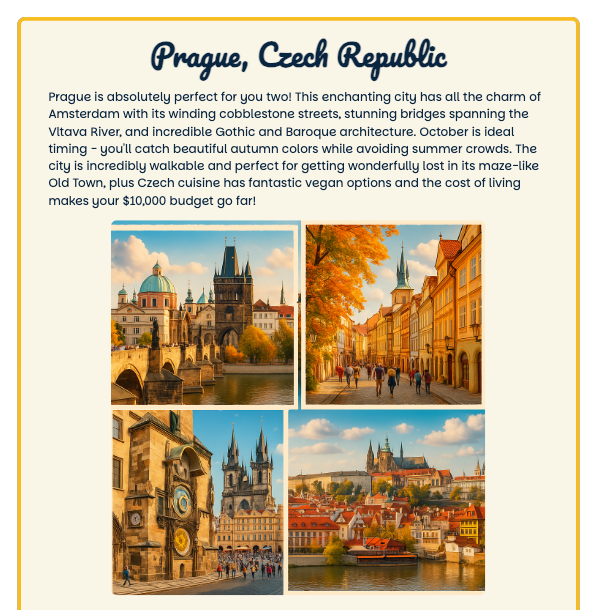
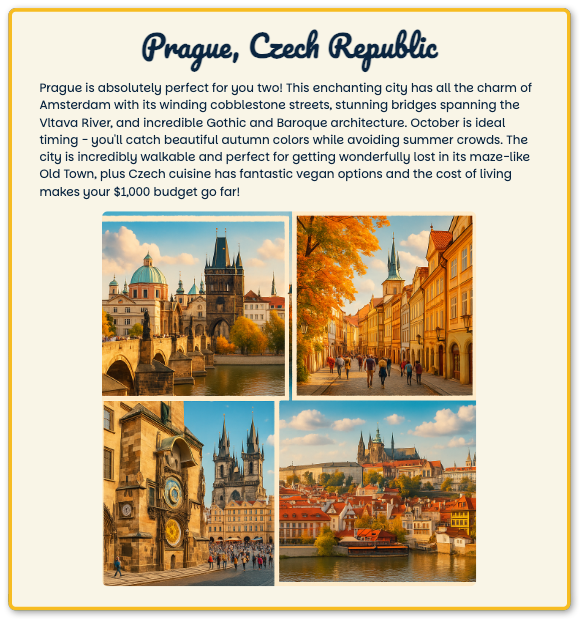
updating home page styling. Just need to make final edits

diff --git a/client/src/pages/Home.tsx b/client/src/pages/Home.tsx
@@ -1,7 +1,7 @@
 import { StepProps } from "../types/types";
 import { useNavigate } from "react-router-dom";
 import beeLogo from "../assets/bee.png";
-import kyoto from "../assets/images/destinations/kyoto.png";
+import prague from "../assets/prague_homepage.png";
 import example_result from "../assets/recommendation-example_cropped.png";
 import { useState } from "react";
 
@@ -146,20 +146,85 @@ function Home({
                 />
               </svg>
             </div>
+            <h3 style={{ color: "var(--action-coral)", fontSize: "26px" }}>
+              Maybe you'll go to...
+            </h3>
             <div className="homeBottomExampleContainer">
-              <img src={example_result} alt="" style={{ width: "500px" }} />
-              <div className="homeBottomExampleText">
-                <h3>All of this is made for you:</h3>
-                <li>
-                  Recommendations on destinations to visit based entirely on
-                  your preferences
-                </li>
-                <li>The best places to stay and eat that fit your lifestyle</li>
-                <li>Detailed itineraries for the length of your trip</li>
-                <li>Advice on local customs and tips on traveling</li>
-                <li>And (of course) much more!</li>
+              <div className="homeBottomExampleContentContainer">
+                <h2
+                  style={{
+                    fontFamily: "Pacifico",
+                    fontSize: "30px",
+                    margin: "15px 0",
+                  }}
+                >
+                  Prague, Czech Republic
+                </h2>
+                <p style={{ textAlign: "left" }}>
+                  Prague is absolutely perfect for you two! This enchanting city
+                  has all the charm of Amsterdam with its winding cobblestone
+                  streets, stunning bridges spanning the Vitava River, and
+                  incredible Gothic and Baroque architecture. October is ideal
+                  timing - you'll catch beautiful autumn colors while avoiding
+                  summer crowds. The city is incredibly walkable and perfect for
+                  getting wonderfully lost in its maze-like Old Town, plus Czech
+                  cuisine has fantastic vegan options and the cost of living
+                  makes your $1,000 budget go far!
+                </p>
+                <img
+                  src={prague}
+                  alt=""
+                  style={{ borderRadius: "10px", width: "90%" }}
+                />
+                <div
+                  style={{
+                    width: "80%",
+                    height: "2px",
+                    backgroundColor: "var(--action-coral)",
+                    margin: "35px 0 10px 0",
+                  }}
+                />
+
+                <h3
+                  style={{
+                    margin: "20px 0 10px 0",
+                    fontSize: "22px",
+                    color: "var(--brand-blue)",
+                  }}
+                >
+                  Your travel plan will include:
+                </h3>
+                <div
+                  style={{
+                    backgroundColor: "rgba(255, 139, 102, 0.2)",
+                    width: "75%",
+                    borderRadius: "10px",
+                    padding: "20px",
+                  }}
+                >
+                  <li>Recommendations on destinations and things to see</li>
+                  <li>
+                    The best places to stay and eat that fit your lifestyle
+                  </li>
+                  <li>Detailed itineraries for the length of your trip</li>
+                  <li>Advice on local customs and tips on traveling</li>
+                  <li>And (of course) much more!</li>
+                </div>
+                <img
+                  src={beeLogo}
+                  style={{ width: "50px", margin: "20px 0 5px 0" }}
+                  alt=""
+                />
               </div>
             </div>
+
+            <button
+              onClick={() => window.scrollTo({ top: 0, behavior: "smooth" })}
+              className="next"
+              style={{ margin: "20px 0" }}
+            >
+              Ready to get started?
+            </button>
           </div>
         </div>
       </div>

diff --git a/client/src/index.css b/client/src/index.css
@@ -516,7 +516,7 @@ button {
   flex-direction: column;
   justify-content: center;
   align-items: center;
-  background-color: var(--back-cream);
+  /* background-color: var(--back-cream); */
 }
 
 .homeBottomTextContainer {
@@ -542,7 +542,7 @@ button {
   justify-content: space-evenly;
   align-items: center;
   gap: 20px;
-  margin: 0 0 15px 0;
+  margin: 15px 0 15px 0;
   position: relative;
 }
 
@@ -585,9 +585,42 @@ button {
 .homeBottomExampleContainer {
   width: 100%;
   display: flex;
+  flex-direction: column;
   justify-content: center;
   align-items: center;
   margin-top: 20px;
+  background-color: var(--back-cream);
+  border: 4px solid var(--brand-yellow);
+  border-radius: 10px;
+  box-shadow: 3px 3px 3px lightgray;
+  box-sizing: border-box;
+}
+
+.homeBottomExampleContentContainer {
+  width: 90%;
+  margin: 0 0 20px 0;
+  display: flex;
+  flex-direction: column;
+  align-items: center;
+  justify-content: center;
+}
+
+.homeBottomExampleContainer li {
+  font-size: 20px;
+  /* color: var(--forest-green); */
+}
+
+.homeBottomExampleText {
+  width: 80%;
+  display: flex;
+  flex-direction: column;
+  justify-content: center;
+  align-items: center;
+  margin: 20px 0;
+  background-color: #ebf4fd;
+  border-radius: 12px;
+  padding: 30px;
+  box-sizing: border-box;
 }
 
 /* **** PATH SCREEN **** */
